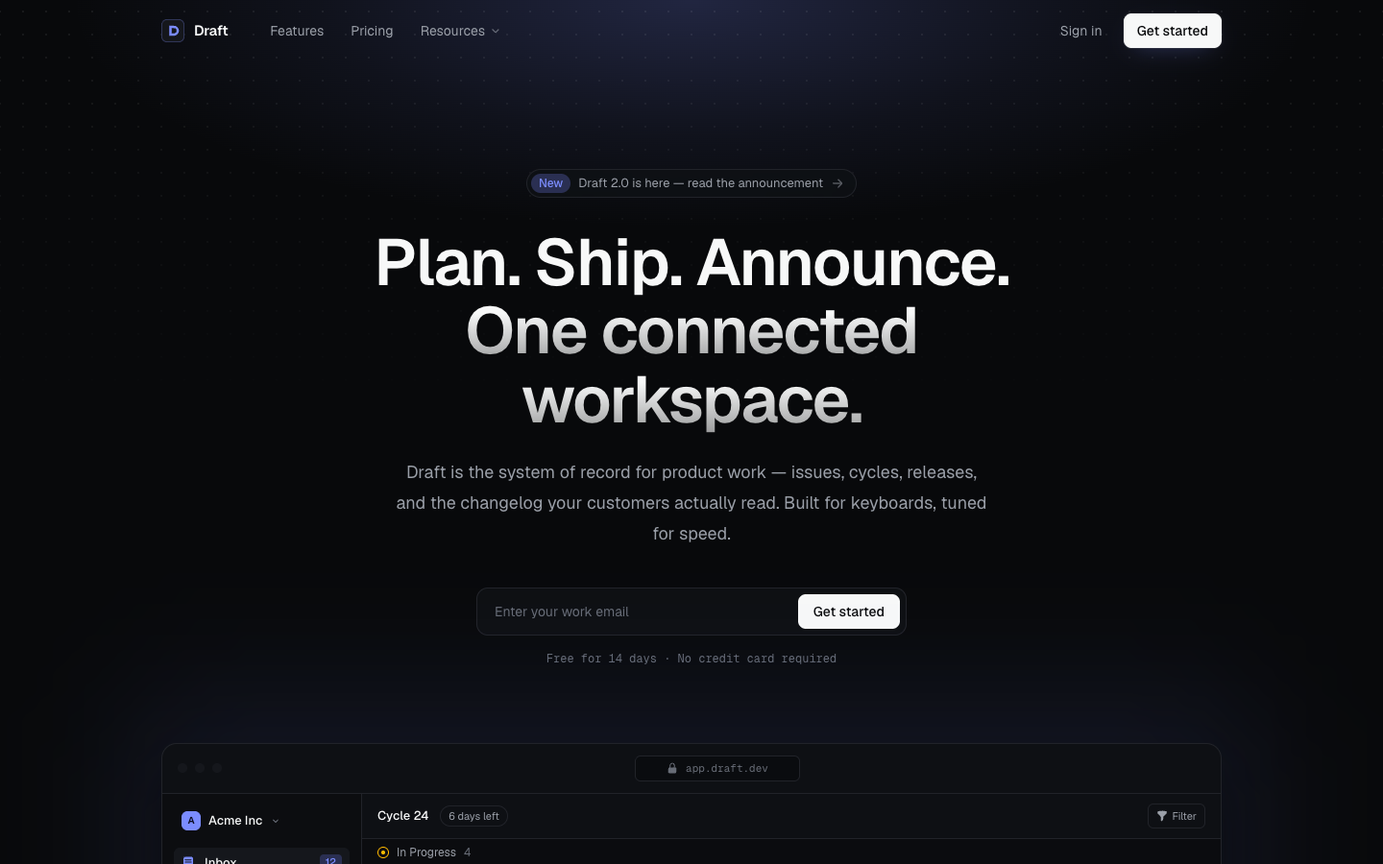
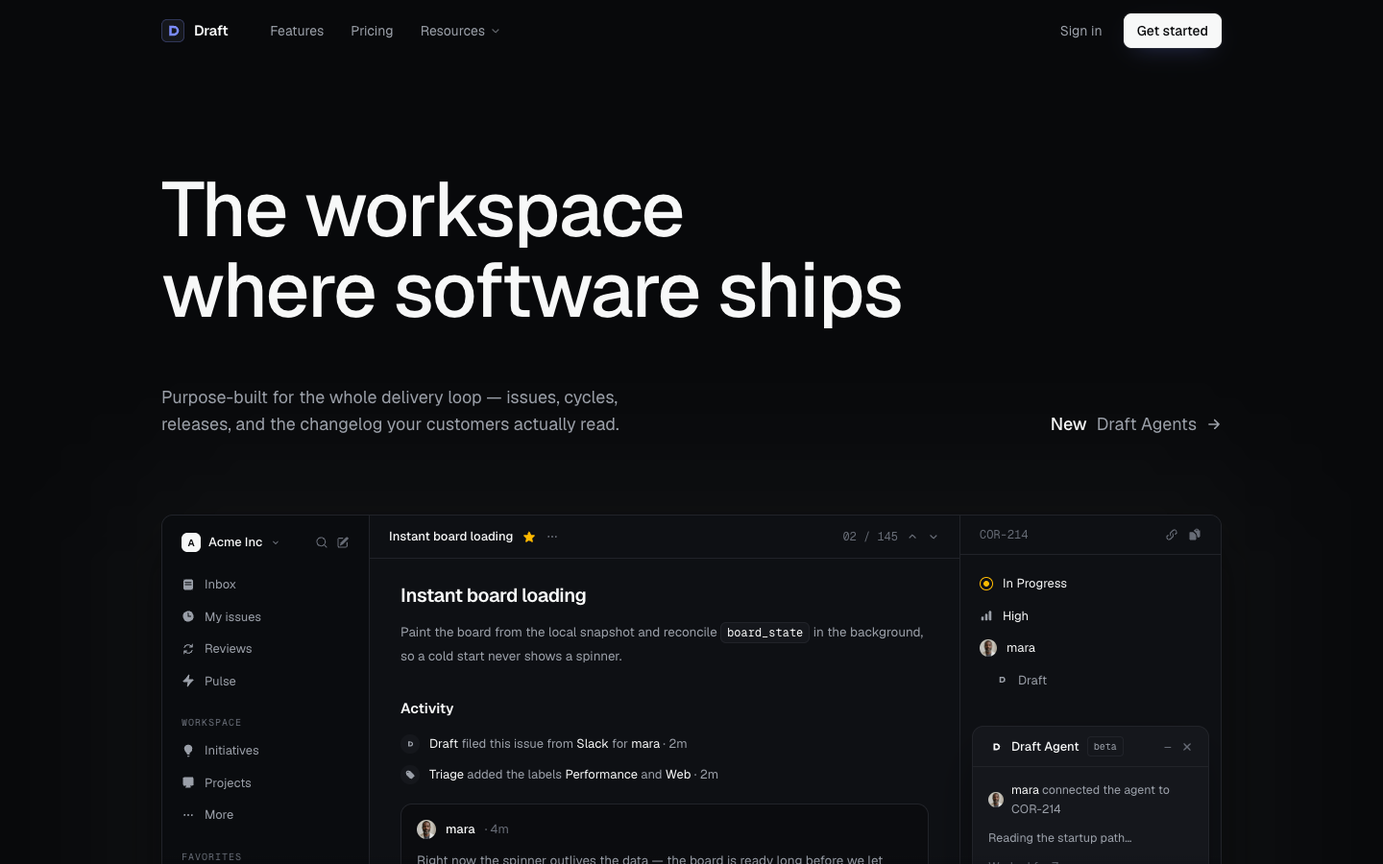
Redesign the hero: monochrome, left-aligned, issue-detail window
The headline moves left at display scale, the email capture gives way
to a subcopy row with a New announcement link, and the product mock
becomes a three-pane issue view — sidebar, activity, meta rail — with
a floating agent session card. Black and white throughout; the only
color is the amber status glints inside the window.

diff --git a/files/resources/views/components/sections/hero.blade.html b/files/resources/views/components/sections/hero.blade.html
@@ -1,210 +1,226 @@
 @props([
-    'badge' => 'Draft 2.0 is here — read the announcement',
-    'badgeLink' => '/updates/draft-2-a-new-foundation',
-    'heading' => 'Plan. Ship. Announce.',
-    'headingLine2' => 'One connected workspace.',
-    'body' => 'Draft is the system of record for product work — issues, cycles, releases, and the changelog your customers actually read. Built for keyboards, tuned for speed.',
-    'placeholder' => 'Enter your work email',
-    'buttonText' => 'Get started',
-    'buttonLink' => '/pricing',
-    'caption' => 'Free for 14 days · No credit card required',
+    'heading' => 'The workspace where software ships',
+    'body' => 'Purpose-built for the whole delivery loop — issues, cycles, releases, and the changelog your customers actually read.',
+    'newLabel' => 'New',
+    'newText' => 'Draft Agents',
+    'newLink' => '/updates/introducing-draft-agents',
 ])
 <!--
-    The opening statement: badge, two-line headline, supporting copy, and the
-    email capture. The product window below it is drawn entirely in HTML and
-    Tailwind — no screenshot to keep in sync, always razor sharp.
+    The opening statement: a left-aligned monochrome headline, a one-line
+    subcopy with the announcement link on the right, then the product window.
+    The window is drawn entirely in HTML and Tailwind — no screenshot to keep
+    in sync, always razor sharp. It stays black and white on purpose; the only
+    color in the hero is the handful of functional glints inside the mock.
 -->
 <section id="hero" class="relative overflow-hidden pt-36 pb-8 sm:pt-44">
-    <div class="glow pointer-events-none absolute inset-x-0 top-0 h-[36rem]"></div>
-    <div class="dot-grid pointer-events-none absolute inset-x-0 top-0 h-[30rem]"></div>
-
     <div class="relative mx-auto w-full max-w-6xl px-6">
-        <div class="mx-auto max-w-3xl text-center">
 
-            <a href="{{ $badgeLink }}" class="group inline-flex items-center gap-2 rounded-full border border-line bg-panel/80 py-1 pr-3 pl-1 text-[13px] text-muted backdrop-blur transition-colors duration-200 hover:border-accent/40 hover:text-ink" data-reveal>
-                <span class="rounded-full bg-accent-soft px-2 py-0.5 text-xs font-medium text-accent">New</span>
-                {{ $badge }}
-                <svg viewBox="0 0 16 16" class="size-3.5 fill-current opacity-50 transition-transform duration-200 group-hover:translate-x-0.5" aria-hidden="true">
+        <h1 class="max-w-[17ch] text-[2.75rem] leading-[1.08] font-medium tracking-[-0.02em] text-balance sm:text-[4.5rem] sm:leading-[1.05] lg:text-[5rem]" data-reveal>
+            {{ $heading }}
+        </h1>
+
+        <div class="reveal-1 mt-10 flex flex-wrap items-end justify-between gap-x-12 gap-y-6 sm:mt-14" data-reveal>
+            <p class="max-w-[44ch] text-lg/7 text-pretty text-muted">{{ $body }}</p>
+
+            <a href="{{ $newLink }}" class="group flex shrink-0 items-center gap-2.5 text-lg/7">
+                <span class="font-medium text-ink">{{ $newLabel }}</span>
+                <span class="text-muted transition-colors duration-200 group-hover:text-ink">{{ $newText }}</span>
+                <svg viewBox="0 0 16 16" class="size-4 fill-muted transition-all duration-200 group-hover:translate-x-0.5 group-hover:fill-ink" aria-hidden="true">
                     <path fill-rule="evenodd" d="M2 8a.75.75 0 0 1 .75-.75h8.69L8.22 4.03a.75.75 0 0 1 1.06-1.06l4.5 4.5a.75.75 0 0 1 0 1.06l-4.5 4.5a.75.75 0 0 1-1.06-1.06l3.22-3.22H2.75A.75.75 0 0 1 2 8Z" clip-rule="evenodd"/>
                 </svg>
             </a>
-
-            <h1 class="reveal-1 mt-8 text-[2.75rem] leading-[1.1] font-semibold tracking-tight text-balance sm:text-[4.25rem] sm:leading-[1.05]" data-reveal>
-                {{ $heading }}<br class="max-sm:hidden">
-                <span class="text-gradient">{{ $headingLine2 }}</span>
-            </h1>
-
-            <p class="reveal-2 mx-auto mt-6 max-w-[52ch] text-lg/8 text-pretty text-muted" data-reveal>
-                {{ $body }}
-            </p>
-
-            <form action="#" class="reveal-3 mx-auto mt-10 flex max-w-md items-center gap-2 rounded-xl border border-line bg-panel/80 p-1.5 backdrop-blur transition-colors duration-200 focus-within:border-accent/50 max-sm:flex-col max-sm:items-stretch max-sm:border-0 max-sm:bg-transparent max-sm:p-0 max-sm:backdrop-blur-none" data-reveal>
-                <input
-                    type="email"
-                    name="email"
-                    placeholder="{{ $placeholder }}"
-                    class="min-w-0 flex-1 bg-transparent px-3 py-2 text-sm text-ink placeholder:text-faint focus:outline-none max-sm:rounded-xl max-sm:border max-sm:border-line max-sm:bg-panel max-sm:py-3">
-                <a href="{{ $buttonLink }}" class="shrink-0 rounded-lg bg-ink px-4 py-2 text-center text-sm font-medium text-canvas transition-all duration-200 hover:bg-white max-sm:py-3">
-                    {{ $buttonText }}
-                </a>
-            </form>
-
-            <p class="reveal-4 mt-4 font-mono text-xs text-faint" data-reveal>{{ $caption }}</p>
         </div>
 
         <!--
             The product window — pure HTML and Tailwind, aria-hidden decoration.
-            A Linear-style triage view: sidebar, toolbar, and an issue list.
+            An issue-detail view: sidebar, the issue with its activity, and the
+            meta rail with a floating agent card.
         -->
-        <div class="reveal-4 relative mt-16 sm:mt-20" data-reveal aria-hidden="true">
-            <div class="pointer-events-none absolute -inset-x-8 -top-12 bottom-0 rounded-[2.5rem] bg-accent/10 blur-3xl"></div>
+        <div class="reveal-2 relative mt-14 sm:mt-20" data-reveal aria-hidden="true">
+            <div class="pointer-events-none absolute -inset-x-10 -top-10 bottom-0 rounded-[3rem] bg-white/[0.03] blur-3xl"></div>
 
-            <div class="pointer-events-none relative select-none overflow-hidden rounded-2xl border border-line bg-panel shadow-2xl shadow-black/60">
-                <!-- Window chrome -->
-                <div class="flex items-center gap-2 border-b border-line px-4 py-3">
-                    <span class="size-2.5 rounded-full bg-raised"></span>
-                    <span class="size-2.5 rounded-full bg-raised"></span>
-                    <span class="size-2.5 rounded-full bg-raised"></span>
-                    <span class="mx-auto flex items-center gap-2 rounded-md border border-line bg-canvas/60 px-8 py-1 font-mono text-[11px] text-faint">
-                        <svg viewBox="0 0 20 20" class="size-3 fill-current" aria-hidden="true"><path fill-rule="evenodd" d="M10 1a4.5 4.5 0 0 0-4.5 4.5V9H5a2 2 0 0 0-2 2v6a2 2 0 0 0 2 2h10a2 2 0 0 0 2-2v-6a2 2 0 0 0-2-2h-.5V5.5A4.5 4.5 0 0 0 10 1Zm3 8V5.5a3 3 0 1 0-6 0V9h6Z" clip-rule="evenodd"/></svg>
-                        app.draft.dev
-                    </span>
-                </div>
+            <div class="pointer-events-none relative select-none overflow-hidden rounded-xl border border-line bg-panel shadow-2xl shadow-black/70">
+                <div class="grid lg:grid-cols-[13.5rem_1fr] xl:grid-cols-[13.5rem_1fr_17rem]">
 
-                <div class="grid sm:grid-cols-[13rem_1fr]">
                     <!-- Sidebar -->
-                    <div class="border-r border-line bg-canvas/40 p-3 max-sm:hidden">
+                    <div class="border-r border-line bg-canvas/60 p-3 max-lg:hidden">
                         <div class="flex items-center gap-2 px-2 py-1.5">
-                            <span class="flex size-5 items-center justify-center rounded-md bg-accent text-[10px] font-bold text-[#0b0c22]">A</span>
+                            <span class="flex size-5 items-center justify-center rounded-md bg-ink text-[10px] font-bold text-canvas">A</span>
                             <span class="text-[13px] font-medium text-ink">Acme Inc</span>
                             <svg viewBox="0 0 16 16" class="size-3 fill-faint" aria-hidden="true"><path fill-rule="evenodd" d="M4.22 6.22a.75.75 0 0 1 1.06 0L8 8.94l2.72-2.72a.75.75 0 1 1 1.06 1.06l-3.25 3.25a.75.75 0 0 1-1.06 0L4.22 7.28a.75.75 0 0 1 0-1.06Z" clip-rule="evenodd"/></svg>
+                            <span class="ml-auto flex items-center gap-2 text-faint">
+                                <svg viewBox="0 0 20 20" class="size-3.5 fill-current" aria-hidden="true"><path fill-rule="evenodd" d="M9 3.5a5.5 5.5 0 1 0 0 11 5.5 5.5 0 0 0 0-11ZM2 9a7 7 0 1 1 12.452 4.391l3.328 3.329a.75.75 0 1 1-1.06 1.06l-3.329-3.328A7 7 0 0 1 2 9Z" clip-rule="evenodd"/></svg>
+                                <svg viewBox="0 0 20 20" class="size-3.5 fill-current" aria-hidden="true"><path d="m5.433 13.917 1.262-3.155A4 4 0 0 1 7.58 9.42l6.92-6.918a2.121 2.121 0 0 1 3 3l-6.92 6.918c-.383.383-.84.685-1.343.886l-3.154 1.262a.5.5 0 0 1-.65-.65Z"/><path d="M3.5 5.75c0-.69.56-1.25 1.25-1.25H10A.75.75 0 0 0 10 3H4.75A2.75 2.75 0 0 0 2 5.75v9.5A2.75 2.75 0 0 0 4.75 18h9.5A2.75 2.75 0 0 0 17 15.25V10a.75.75 0 0 0-1.5 0v5.25c0 .69-.56 1.25-1.25 1.25h-9.5c-.69 0-1.25-.56-1.25-1.25v-9.5Z"/></svg>
+                            </span>
                         </div>
 
                         <div class="mt-3 flex flex-col gap-0.5 text-[13px] text-muted">
-                            <span class="flex items-center gap-2.5 rounded-md bg-raised px-2 py-1.5 font-medium text-ink">
-                                <svg viewBox="0 0 20 20" class="size-3.5 fill-accent" aria-hidden="true"><path d="M3 4.25A2.25 2.25 0 0 1 5.25 2h9.5A2.25 2.25 0 0 1 17 4.25v11.5A2.25 2.25 0 0 1 14.75 18h-9.5A2.25 2.25 0 0 1 3 15.75V4.25ZM5.5 6a.75.75 0 0 0 0 1.5h9a.75.75 0 0 0 0-1.5h-9ZM5.5 9.25a.75.75 0 0 0 0 1.5h9a.75.75 0 0 0 0-1.5h-9Z"/></svg>
+                            <span class="flex items-center gap-2.5 px-2 py-1.5">
+                                <svg viewBox="0 0 20 20" class="size-3.5 fill-current" aria-hidden="true"><path d="M3 4.25A2.25 2.25 0 0 1 5.25 2h9.5A2.25 2.25 0 0 1 17 4.25v11.5A2.25 2.25 0 0 1 14.75 18h-9.5A2.25 2.25 0 0 1 3 15.75V4.25ZM5.5 6a.75.75 0 0 0 0 1.5h9a.75.75 0 0 0 0-1.5h-9ZM5.5 9.25a.75.75 0 0 0 0 1.5h9a.75.75 0 0 0 0-1.5h-9Z"/></svg>
                                 Inbox
-                                <span class="ml-auto rounded bg-accent-soft px-1.5 text-[11px] font-medium text-accent">12</span>
                             </span>
                             <span class="flex items-center gap-2.5 px-2 py-1.5">
                                 <svg viewBox="0 0 20 20" class="size-3.5 fill-current" aria-hidden="true"><path fill-rule="evenodd" d="M10 18a8 8 0 1 0 0-16 8 8 0 0 0 0 16Zm.75-13a.75.75 0 0 0-1.5 0v5c0 .414.336.75.75.75h4a.75.75 0 0 0 0-1.5h-3.25V5Z" clip-rule="evenodd"/></svg>
                                 My issues
                             </span>
                             <span class="flex items-center gap-2.5 px-2 py-1.5">
-                                <svg viewBox="0 0 20 20" class="size-3.5 fill-current" aria-hidden="true"><path d="M15.98 1.804a1 1 0 0 0-1.96 0l-.24 1.192a1 1 0 0 1-.784.785l-1.192.238a1 1 0 0 0 0 1.962l1.192.238a1 1 0 0 1 .785.785l.238 1.192a1 1 0 0 0 1.962 0l.238-1.192a1 1 0 0 1 .785-.785l1.192-.238a1 1 0 0 0 0-1.962l-1.192-.238a1 1 0 0 1-.785-.785l-.238-1.192ZM6.949 5.684a1 1 0 0 0-1.898 0l-.683 2.051a1 1 0 0 1-.633.633l-2.051.683a1 1 0 0 0 0 1.898l2.051.684a1 1 0 0 1 .633.632l.683 2.051a1 1 0 0 0 1.898 0l.683-2.051a1 1 0 0 1 .633-.633l2.051-.683a1 1 0 0 0 0-1.898l-2.051-.683a1 1 0 0 1-.633-.633l-.683-2.051Z"/></svg>
-                                Cycles
+                                <svg viewBox="0 0 20 20" class="size-3.5 fill-current" aria-hidden="true"><path fill-rule="evenodd" d="M15.312 11.424a5.5 5.5 0 0 1-9.201 2.466l-.312-.311h2.433a.75.75 0 0 0 0-1.5H3.989a.75.75 0 0 0-.75.75v4.242a.75.75 0 0 0 1.5 0v-2.43l.31.31a7 7 0 0 0 11.712-3.138.75.75 0 0 0-1.449-.39Zm1.23-3.723a.75.75 0 0 0 .219-.53V2.929a.75.75 0 0 0-1.5 0V5.36l-.31-.31A7 7 0 0 0 3.239 8.188a.75.75 0 1 0 1.448.389A5.5 5.5 0 0 1 13.89 6.11l.311.31h-2.432a.75.75 0 0 0 0 1.5h4.243a.75.75 0 0 0 .53-.219Z" clip-rule="evenodd"/></svg>
+                                Reviews
                             </span>
                             <span class="flex items-center gap-2.5 px-2 py-1.5">
-                                <svg viewBox="0 0 20 20" class="size-3.5 fill-current" aria-hidden="true"><path fill-rule="evenodd" d="M2 4.25A2.25 2.25 0 0 1 4.25 2h11.5A2.25 2.25 0 0 1 18 4.25v8.5A2.25 2.25 0 0 1 15.75 15h-3.105a3.501 3.501 0 0 0 1.1 1.677A.75.75 0 0 1 13.26 18H6.74a.75.75 0 0 1-.484-1.323A3.501 3.501 0 0 0 7.355 15H4.25A2.25 2.25 0 0 1 2 12.75v-8.5Zm1.5 0a.75.75 0 0 1 .75-.75h11.5a.75.75 0 0 1 .75.75v7.5a.75.75 0 0 1-.75.75H4.25a.75.75 0 0 1-.75-.75v-7.5Z" clip-rule="evenodd"/></svg>
+                                <svg viewBox="0 0 20 20" class="size-3.5 fill-current" aria-hidden="true"><path d="M11.983 1.907a.75.75 0 0 0-1.292-.657l-8.5 9.5A.75.75 0 0 0 2.75 12h6.572l-1.305 6.093a.75.75 0 0 0 1.292.657l8.5-9.5A.75.75 0 0 0 17.25 8h-6.572l1.305-6.093Z"/></svg>
+                                Pulse
+                            </span>
+                        </div>
+
+                        <p class="mt-5 px-2 font-mono text-[10px] tracking-widest text-faint uppercase">Workspace</p>
+                        <div class="mt-1.5 flex flex-col gap-0.5 text-[13px] text-muted">
+                            <span class="flex items-center gap-2.5 px-2 py-1.5">
+                                <svg viewBox="0 0 20 20" class="size-3.5 fill-current" aria-hidden="true"><path d="M10 1a6 6 0 0 0-3.815 10.631C7.237 12.5 8 13.443 8 14.456v.644a.75.75 0 0 0 .572.729 6.016 6.016 0 0 0 2.856 0A.75.75 0 0 0 12 15.1v-.644c0-1.013.762-1.957 1.815-2.825A6 6 0 0 0 10 1ZM8.863 17.414a.75.75 0 0 0-.226 1.483 9.066 9.066 0 0 0 2.726 0 .75.75 0 0 0-.226-1.483 7.553 7.553 0 0 1-2.274 0Z"/></svg>
+                                Initiatives
+                            </span>
+                            <span class="flex items-center gap-2.5 px-2 py-1.5">
+                                <svg viewBox="0 0 20 20" class="size-3.5 fill-current" aria-hidden="true"><path fill-rule="evenodd" d="M2 4.25A2.25 2.25 0 0 1 4.25 2h11.5A2.25 2.25 0 0 1 18 4.25v8.5A2.25 2.25 0 0 1 15.75 15h-3.105a3.501 3.501 0 0 0 1.1 1.677A.75.75 0 0 1 13.26 18H6.74a.75.75 0 0 1-.484-1.323A3.501 3.501 0 0 0 7.355 15H4.25A2.25 2.25 0 0 1 2 12.75v-8.5Z" clip-rule="evenodd"/></svg>
                                 Projects
                             </span>
                             <span class="flex items-center gap-2.5 px-2 py-1.5">
-                                <svg viewBox="0 0 20 20" class="size-3.5 fill-current" aria-hidden="true"><path d="M4.25 2A2.25 2.25 0 0 0 2 4.25v2.5A2.25 2.25 0 0 0 4.25 9h2.5A2.25 2.25 0 0 0 9 6.75v-2.5A2.25 2.25 0 0 0 6.75 2h-2.5Zm0 9A2.25 2.25 0 0 0 2 13.25v2.5A2.25 2.25 0 0 0 4.25 18h2.5A2.25 2.25 0 0 0 9 15.75v-2.5A2.25 2.25 0 0 0 6.75 11h-2.5Zm9-9A2.25 2.25 0 0 0 11 4.25v2.5A2.25 2.25 0 0 0 13.25 9h2.5A2.25 2.25 0 0 0 18 6.75v-2.5A2.25 2.25 0 0 0 15.75 2h-2.5Zm0 9A2.25 2.25 0 0 0 11 13.25v2.5A2.25 2.25 0 0 0 13.25 18h2.5A2.25 2.25 0 0 0 18 15.75v-2.5A2.25 2.25 0 0 0 15.75 11h-2.5Z"/></svg>
-                                Views
+                                <svg viewBox="0 0 20 20" class="size-3.5 fill-current" aria-hidden="true"><path d="M3 10a1.5 1.5 0 1 1 3 0 1.5 1.5 0 0 1-3 0ZM8.5 10a1.5 1.5 0 1 1 3 0 1.5 1.5 0 0 1-3 0ZM15.5 8.5a1.5 1.5 0 1 0 0 3 1.5 1.5 0 0 0 0-3Z"/></svg>
+                                More
+                            </span>
+                        </div>
+
+                        <p class="mt-5 px-2 font-mono text-[10px] tracking-widest text-faint uppercase">Favorites</p>
+                        <div class="mt-1.5 flex flex-col gap-0.5 text-[13px] text-muted">
+                            <span class="flex items-center gap-2.5 rounded-md bg-raised px-2 py-1.5 font-medium text-ink">
+                                <span class="relative flex size-3 items-center justify-center rounded-full border-[1.5px] border-amber-400"><span class="size-1 rounded-full bg-amber-400"></span></span>
+                                Instant board loading
                             </span>
                             <span class="flex items-center gap-2.5 px-2 py-1.5">
-                                <svg viewBox="0 0 20 20" class="size-3.5 fill-current" aria-hidden="true"><path fill-rule="evenodd" d="M3.5 3A1.5 1.5 0 0 0 2 4.5v11A1.5 1.5 0 0 0 3.5 17h13a1.5 1.5 0 0 0 1.5-1.5v-11A1.5 1.5 0 0 0 16.5 3h-13ZM5 6.75A.75.75 0 0 1 5.75 6h8.5a.75.75 0 0 1 0 1.5h-8.5A.75.75 0 0 1 5 6.75ZM5.75 9.5a.75.75 0 0 0 0 1.5h8.5a.75.75 0 0 0 0-1.5h-8.5Z" clip-rule="evenodd"/></svg>
-                                Releases
+                                <svg viewBox="0 0 20 20" class="size-3.5 fill-current" aria-hidden="true"><path d="M15.98 1.804a1 1 0 0 0-1.96 0l-.24 1.192a1 1 0 0 1-.784.785l-1.192.238a1 1 0 0 0 0 1.962l1.192.238a1 1 0 0 1 .785.785l.238 1.192a1 1 0 0 0 1.962 0l.238-1.192a1 1 0 0 1 .785-.785l1.192-.238a1 1 0 0 0 0-1.962l-1.192-.238a1 1 0 0 1-.785-.785l-.238-1.192ZM6.949 5.684a1 1 0 0 0-1.898 0l-.683 2.051a1 1 0 0 1-.633.633l-2.051.683a1 1 0 0 0 0 1.898l2.051.684a1 1 0 0 1 .633.632l.683 2.051a1 1 0 0 0 1.898 0l.683-2.051a1 1 0 0 1 .633-.633l2.051-.683a1 1 0 0 0 0-1.898l-2.051-.683a1 1 0 0 1-.633-.633l-.683-2.051Z"/></svg>
+                                Agent tasks
                             </span>
-                        </div>
-
-                        <p class="mt-5 px-2 font-mono text-[10px] tracking-widest text-faint uppercase">Teams</p>
-                        <div class="mt-1.5 flex flex-col gap-0.5 text-[13px] text-muted">
-                            <span class="flex items-center gap-2.5 px-2 py-1.5"><span class="size-2 rounded-sm bg-accent"></span>Core</span>
-                            <span class="flex items-center gap-2.5 px-2 py-1.5"><span class="size-2 rounded-sm bg-emerald-400"></span>Mobile</span>
-                            <span class="flex items-center gap-2.5 px-2 py-1.5"><span class="size-2 rounded-sm bg-amber-400"></span>Infrastructure</span>
+                            <span class="flex items-center gap-2.5 px-2 py-1.5">
+                                <svg viewBox="0 0 20 20" class="size-3.5 fill-current" aria-hidden="true"><path d="m5.433 13.917 1.262-3.155A4 4 0 0 1 7.58 9.42l6.92-6.918a2.121 2.121 0 0 1 3 3l-6.92 6.918c-.383.383-.84.685-1.343.886l-3.154 1.262a.5.5 0 0 1-.65-.65Z"/></svg>
+                                UI polish
+                            </span>
                         </div>
                     </div>
 
-                    <!-- Main pane -->
+                    <!-- Main pane: the issue -->
                     <div class="min-w-0 bg-panel">
-                        <!-- Toolbar -->
-                        <div class="flex items-center gap-3 border-b border-line px-4 py-2.5 text-[13px]">
-                            <span class="font-medium text-ink">Cycle 24</span>
-                            <span class="rounded-full border border-line px-2 py-0.5 text-[11px] text-muted">6 days left</span>
-                            <span class="ml-auto flex items-center gap-1 rounded-md border border-line px-2 py-1 text-[11px] text-muted">
-                                <svg viewBox="0 0 20 20" class="size-3 fill-current" aria-hidden="true"><path fill-rule="evenodd" d="M2.628 1.601C5.028 1.206 7.49 1 10 1s4.973.206 7.372.601a.75.75 0 0 1 .628.74v2.288a2.25 2.25 0 0 1-.659 1.59l-4.682 4.683a2.25 2.25 0 0 0-.659 1.59v3.037c0 .684-.31 1.33-.844 1.757l-1.937 1.55A.75.75 0 0 1 8 18.25v-5.757a2.25 2.25 0 0 0-.659-1.591L2.659 6.22A2.25 2.25 0 0 1 2 4.629V2.34a.75.75 0 0 1 .628-.74Z" clip-rule="evenodd"/></svg>
-                                Filter
+                        <div class="flex items-center gap-2.5 border-b border-line px-5 py-3 text-[13px]">
+                            <span class="truncate font-medium text-ink">Instant board loading</span>
+                            <svg viewBox="0 0 20 20" class="size-3.5 shrink-0 fill-amber-400" aria-hidden="true"><path fill-rule="evenodd" d="M10.868 2.884c-.321-.772-1.415-.772-1.736 0l-1.83 4.401-4.753.381c-.833.067-1.171 1.107-.536 1.651l3.62 3.102-1.106 4.637c-.194.813.691 1.456 1.405 1.02L10 15.591l4.069 2.485c.713.436 1.598-.207 1.404-1.02l-1.106-4.637 3.62-3.102c.635-.544.297-1.584-.536-1.65l-4.752-.382-1.831-4.401Z" clip-rule="evenodd"/></svg>
+                            <svg viewBox="0 0 20 20" class="size-3.5 shrink-0 fill-faint" aria-hidden="true"><path d="M3 10a1.5 1.5 0 1 1 3 0 1.5 1.5 0 0 1-3 0ZM8.5 10a1.5 1.5 0 1 1 3 0 1.5 1.5 0 0 1-3 0ZM15.5 8.5a1.5 1.5 0 1 0 0 3 1.5 1.5 0 0 0 0-3Z"/></svg>
+                            <span class="ml-auto flex shrink-0 items-center gap-2 text-faint">
+                                <span class="font-mono text-xs">02 / 145</span>
+                                <svg viewBox="0 0 16 16" class="size-3.5 fill-current" aria-hidden="true"><path fill-rule="evenodd" d="M11.78 9.78a.75.75 0 0 1-1.06 0L8 7.06 5.28 9.78a.75.75 0 0 1-1.06-1.06l3.25-3.25a.75.75 0 0 1 1.06 0l3.25 3.25a.75.75 0 0 1 0 1.06Z" clip-rule="evenodd"/></svg>
+                                <svg viewBox="0 0 16 16" class="size-3.5 fill-current" aria-hidden="true"><path fill-rule="evenodd" d="M4.22 6.22a.75.75 0 0 1 1.06 0L8 8.94l2.72-2.72a.75.75 0 1 1 1.06 1.06l-3.25 3.25a.75.75 0 0 1-1.06 0L4.22 7.28a.75.75 0 0 1 0-1.06Z" clip-rule="evenodd"/></svg>
                             </span>
                         </div>
 
-                        <!-- Group: In Progress -->
-                        <div class="flex items-center gap-2 bg-canvas/50 px-4 py-1.5 text-xs text-muted">
-                            <span class="relative flex size-3 items-center justify-center rounded-full border-[1.5px] border-amber-400"><span class="size-1 rounded-full bg-amber-400"></span></span>
-                            In Progress <span class="text-faint">4</span>
-                        </div>
+                        <div class="px-5 py-6 sm:px-8">
+                            <p class="text-xl font-semibold tracking-tight text-ink">Instant board loading</p>
+                            <p class="mt-3 max-w-[62ch] text-[13.5px]/6 text-muted">
+                                Paint the board from the local snapshot and reconcile
+                                <span class="rounded-md border border-line bg-raised px-1.5 py-0.5 font-mono text-[12px] text-ink">board_state</span>
+                                in the background, so a cold start never shows a spinner.
+                            </p>
 
-                        <div class="flex items-center gap-3 border-t border-line px-4 py-2.5 text-[13px]">
-                            <svg viewBox="0 0 16 16" class="size-3.5 shrink-0 fill-orange-400" aria-hidden="true"><path d="M2 10.5a1 1 0 0 1 1-1h1a1 1 0 0 1 1 1V13a1 1 0 0 1-1 1H3a1 1 0 0 1-1-1v-2.5ZM6.5 7a1 1 0 0 1 1-1h1a1 1 0 0 1 1 1v6a1 1 0 0 1-1 1h-1a1 1 0 0 1-1-1V7ZM11 3.5a1 1 0 0 1 1-1h1a1 1 0 0 1 1 1V13a1 1 0 0 1-1 1h-1a1 1 0 0 1-1-1V3.5Z"/></svg>
-                            <span class="font-mono text-xs text-faint">COR-128</span>
-                            <span class="truncate text-ink">Command menu: fuzzy matching for issue titles</span>
-                            <span class="ml-auto hidden shrink-0 items-center gap-2 sm:flex">
-                                <span class="rounded-full border border-line px-2 py-0.5 text-[11px] text-accent">Design</span>
-                                <img src="https://assets.ui.sh/avatars/2.webp?size=160" alt="" class="size-5 rounded-full object-cover" loading="lazy">
-                            </span>
-                        </div>
+                            <p class="mt-8 text-[15px] font-semibold text-ink">Activity</p>
 
-                        <div class="flex items-center gap-3 border-t border-line px-4 py-2.5 text-[13px]">
-                            <svg viewBox="0 0 16 16" class="size-3.5 shrink-0 fill-faint" aria-hidden="true"><path d="M2 10.5a1 1 0 0 1 1-1h1a1 1 0 0 1 1 1V13a1 1 0 0 1-1 1H3a1 1 0 0 1-1-1v-2.5ZM6.5 7a1 1 0 0 1 1-1h1a1 1 0 0 1 1 1v6a1 1 0 0 1-1 1h-1a1 1 0 0 1-1-1V7Z"/></svg>
-                            <span class="font-mono text-xs text-faint">COR-131</span>
-                            <span class="truncate text-ink">Realtime sync drops offline edits older than 30 days</span>
-                            <span class="ml-auto hidden shrink-0 items-center gap-2 sm:flex">
-                                <span class="rounded-full border border-line px-2 py-0.5 text-[11px] text-emerald-400">Sync</span>
-                                <img src="https://assets.ui.sh/avatars/5.webp?size=160" alt="" class="size-5 rounded-full object-cover" loading="lazy">
-                            </span>
-                        </div>
+                            <div class="mt-4 flex flex-col gap-3 text-[13px] text-muted">
+                                <p class="flex items-center gap-2.5">
+                                    <span class="flex size-5 items-center justify-center rounded-full bg-raised"><svg viewBox="0 0 64 64" class="size-3" aria-hidden="true"><path d="M22 18h12c8.284 0 15 6.268 15 14s-6.716 14-15 14H22V18Zm7 6.5v15h5c4.694 0 8.5-3.358 8.5-7.5s-3.806-7.5-8.5-7.5h-5Z" class="fill-muted"/></svg></span>
+                                    <span class="truncate"><span class="text-ink">Draft</span> filed this issue from <span class="text-ink">Slack</span> for <span class="text-ink">mara</span> · 2m</span>
+                                </p>
+                                <p class="flex items-center gap-2.5">
+                                    <span class="flex size-5 items-center justify-center rounded-full bg-raised"><svg viewBox="0 0 20 20" class="size-3 fill-muted" aria-hidden="true"><path fill-rule="evenodd" d="M5.5 3A2.5 2.5 0 0 0 3 5.5v2.879a2.5 2.5 0 0 0 .732 1.767l6.5 6.5a2.5 2.5 0 0 0 3.536 0l2.878-2.878a2.5 2.5 0 0 0 0-3.536l-6.5-6.5A2.5 2.5 0 0 0 8.38 3H5.5ZM6 7a1 1 0 1 0 0-2 1 1 0 0 0 0 2Z" clip-rule="evenodd"/></svg></span>
+                                    <span class="truncate"><span class="text-ink">Triage</span> added the labels <span class="text-ink">Performance</span> and <span class="text-ink">Web</span> · 2m</span>
+                                </p>
+                            </div>
 
-                        <div class="flex items-center gap-3 border-t border-line px-4 py-2.5 text-[13px]">
-                            <svg viewBox="0 0 16 16" class="size-3.5 shrink-0 fill-orange-400" aria-hidden="true"><path d="M2 10.5a1 1 0 0 1 1-1h1a1 1 0 0 1 1 1V13a1 1 0 0 1-1 1H3a1 1 0 0 1-1-1v-2.5ZM6.5 7a1 1 0 0 1 1-1h1a1 1 0 0 1 1 1v6a1 1 0 0 1-1 1h-1a1 1 0 0 1-1-1V7ZM11 3.5a1 1 0 0 1 1-1h1a1 1 0 0 1 1 1V13a1 1 0 0 1-1 1h-1a1 1 0 0 1-1-1V3.5Z"/></svg>
-                            <span class="font-mono text-xs text-faint">MOB-77</span>
-                            <span class="truncate text-ink">Swipe actions for triage on iOS</span>
-                            <span class="ml-auto hidden shrink-0 items-center gap-2 sm:flex">
-                                <span class="rounded-full border border-line px-2 py-0.5 text-[11px] text-muted">Mobile</span>
+                            <div class="mt-5 rounded-xl border border-line bg-canvas/50 p-4">
+                                <p class="flex items-center gap-2.5 text-[13px]">
+                                    <img src="https://assets.ui.sh/avatars/2.webp?size=160" alt="" class="size-5 rounded-full object-cover" loading="lazy">
+                                    <span class="font-medium text-ink">mara</span>
+                                    <span class="text-faint">· 4m</span>
+                                </p>
+                                <p class="mt-2.5 text-[13.5px]/6 text-muted">Right now the spinner outlives the data — the board is ready long before we let anyone see it…</p>
+                            </div>
+
+                            <p class="mt-4 flex items-center gap-2.5 text-[13px] text-faint max-xl:hidden">
                                 <img src="https://assets.ui.sh/avatars/8.webp?size=160" alt="" class="size-5 rounded-full object-cover" loading="lazy">
-                            </span>
-                        </div>
-
-                        <!-- Group: Todo -->
-                        <div class="flex items-center gap-2 border-t border-line bg-canvas/50 px-4 py-1.5 text-xs text-muted">
-                            <span class="size-3 rounded-full border-[1.5px] border-faint"></span>
-                            Todo <span class="text-faint">7</span>
-                        </div>
-
-                        <div class="flex items-center gap-3 border-t border-line px-4 py-2.5 text-[13px]">
-                            <svg viewBox="0 0 16 16" class="size-3.5 shrink-0 fill-faint" aria-hidden="true"><path d="M2 10.5a1 1 0 0 1 1-1h1a1 1 0 0 1 1 1V13a1 1 0 0 1-1 1H3a1 1 0 0 1-1-1v-2.5Z"/></svg>
-                            <span class="font-mono text-xs text-faint">COR-134</span>
-                            <span class="truncate text-ink">Changelog draft generated from merged release notes</span>
-                            <span class="ml-auto hidden shrink-0 items-center gap-2 sm:flex">
-                                <span class="rounded-full border border-line px-2 py-0.5 text-[11px] text-accent">Releases</span>
-                                <img src="https://assets.ui.sh/avatars/11.webp?size=160" alt="" class="size-5 rounded-full object-cover" loading="lazy">
-                            </span>
-                        </div>
-
-                        <div class="flex items-center gap-3 border-t border-line px-4 py-2.5 text-[13px]">
-                            <svg viewBox="0 0 16 16" class="size-3.5 shrink-0 fill-faint" aria-hidden="true"><path d="M2 10.5a1 1 0 0 1 1-1h1a1 1 0 0 1 1 1V13a1 1 0 0 1-1 1H3a1 1 0 0 1-1-1v-2.5ZM6.5 7a1 1 0 0 1 1-1h1a1 1 0 0 1 1 1v6a1 1 0 0 1-1 1h-1a1 1 0 0 1-1-1V7Z"/></svg>
-                            <span class="font-mono text-xs text-faint">INF-45</span>
-                            <span class="truncate text-ink">Zero-downtime migration for the events table</span>
-                            <span class="ml-auto hidden shrink-0 items-center gap-2 sm:flex">
-                                <span class="rounded-full border border-line px-2 py-0.5 text-[11px] text-amber-400">Infra</span>
-                                <img src="https://assets.ui.sh/avatars/14.webp?size=160" alt="" class="size-5 rounded-full object-cover" loading="lazy">
-                            </span>
-                        </div>
-
-                        <div class="flex items-center gap-3 border-t border-line px-4 py-2.5 text-[13px] max-sm:hidden">
-                            <svg viewBox="0 0 16 16" class="size-3.5 shrink-0 fill-faint" aria-hidden="true"><path d="M2 10.5a1 1 0 0 1 1-1h1a1 1 0 0 1 1 1V13a1 1 0 0 1-1 1H3a1 1 0 0 1-1-1v-2.5Z"/></svg>
-                            <span class="font-mono text-xs text-faint">COR-136</span>
-                            <span class="truncate text-ink">Agent-suggested duplicates in triage view</span>
-                            <span class="ml-auto hidden shrink-0 items-center gap-2 sm:flex">
-                                <span class="rounded-full border border-line px-2 py-0.5 text-[11px] text-accent">Agents</span>
-                                <img src="https://assets.ui.sh/avatars/16.webp?size=160" alt="" class="size-5 rounded-full object-cover" loading="lazy">
-                            </span>
+                                <span class="font-medium text-muted">theo</span>
+                                <span>· just now</span>
+                            </p>
                         </div>
                     </div>
+
+                    <!-- Meta rail + the floating agent card -->
+                    <div class="relative border-l border-line bg-panel max-xl:hidden">
+                        <div class="flex items-center justify-between border-b border-line px-5 py-3">
+                            <span class="font-mono text-xs text-faint">COR-214</span>
+                            <span class="flex items-center gap-2.5 text-faint">
+                                <svg viewBox="0 0 20 20" class="size-3.5 fill-current" aria-hidden="true"><path d="M12.232 4.232a2.5 2.5 0 0 1 3.536 3.536l-1.225 1.224a.75.75 0 0 0 1.061 1.06l1.224-1.224a4 4 0 0 0-5.656-5.656l-3 3a4 4 0 0 0 .225 5.865.75.75 0 0 0 .977-1.138 2.5 2.5 0 0 1-.142-3.667l3-3Z"/><path d="M11.603 7.963a.75.75 0 0 0-.977 1.138 2.5 2.5 0 0 1 .142 3.667l-3 3a2.5 2.5 0 0 1-3.536-3.536l1.225-1.224a.75.75 0 0 0-1.061-1.06l-1.224 1.224a4 4 0 1 0 5.656 5.656l3-3a4 4 0 0 0-.225-5.865Z"/></svg>
+                                <svg viewBox="0 0 20 20" class="size-3.5 fill-current" aria-hidden="true"><path fill-rule="evenodd" d="M15.988 3.012A2.25 2.25 0 0 1 18 5.25v6.5A2.25 2.25 0 0 1 15.75 14H13.5v-3.379a3 3 0 0 0-.879-2.121l-3.12-3.121a3 3 0 0 0-1.402-.791 2.252 2.252 0 0 1 1.913-1.576A2.25 2.25 0 0 1 12.25 1h1.5a2.25 2.25 0 0 1 2.238 2.012ZM11.5 3.25a.75.75 0 0 1 .75-.75h1.5a.75.75 0 0 1 .75.75v.25h-3v-.25Z" clip-rule="evenodd"/><path d="M3.5 6A1.5 1.5 0 0 0 2 7.5v9A1.5 1.5 0 0 0 3.5 18h7a1.5 1.5 0 0 0 1.5-1.5v-5.879a1.5 1.5 0 0 0-.44-1.06L8.44 6.44A1.5 1.5 0 0 0 7.38 6H3.5Z"/></svg>
+                            </span>
+                        </div>
+
+                        <div class="flex flex-col gap-3.5 px-5 py-5 text-[13px]">
+                            <p class="flex items-center gap-2.5 text-ink">
+                                <span class="relative flex size-3.5 items-center justify-center rounded-full border-[1.5px] border-amber-400"><span class="size-1.5 rounded-full bg-amber-400"></span></span>
+                                In Progress
+                            </p>
+                            <p class="flex items-center gap-2.5 text-ink">
+                                <svg viewBox="0 0 16 16" class="size-3.5 fill-muted" aria-hidden="true"><path d="M2 10.5a1 1 0 0 1 1-1h1a1 1 0 0 1 1 1V13a1 1 0 0 1-1 1H3a1 1 0 0 1-1-1v-2.5ZM6.5 7a1 1 0 0 1 1-1h1a1 1 0 0 1 1 1v6a1 1 0 0 1-1 1h-1a1 1 0 0 1-1-1V7ZM11 3.5a1 1 0 0 1 1-1h1a1 1 0 0 1 1 1V13a1 1 0 0 1-1 1h-1a1 1 0 0 1-1-1V3.5Z"/></svg>
+                                High
+                            </p>
+                            <p class="flex items-center gap-2.5 text-ink">
+                                <img src="https://assets.ui.sh/avatars/2.webp?size=160" alt="" class="size-4.5 rounded-full object-cover" loading="lazy">
+                                mara
+                            </p>
+                            <p class="flex items-center gap-2.5 pl-4 text-muted">
+                                <svg viewBox="0 0 64 64" class="size-3.5" aria-hidden="true"><path d="M22 18h12c8.284 0 15 6.268 15 14s-6.716 14-15 14H22V18Zm7 6.5v15h5c4.694 0 8.5-3.358 8.5-7.5s-3.806-7.5-8.5-7.5h-5Z" class="fill-muted"/></svg>
+                                Draft
+                            </p>
+                        </div>
+
+                        <!-- The agent session card -->
+                        <div class="absolute right-3 bottom-0 left-3 translate-y-3 rounded-xl border border-line bg-raised/95 shadow-2xl shadow-black/60 backdrop-blur">
+                            <div class="flex items-center gap-2 border-b border-line px-4 py-2.5">
+                                <svg viewBox="0 0 64 64" class="size-4" aria-hidden="true"><path d="M22 18h12c8.284 0 15 6.268 15 14s-6.716 14-15 14H22V18Zm7 6.5v15h5c4.694 0 8.5-3.358 8.5-7.5s-3.806-7.5-8.5-7.5h-5Z" class="fill-ink"/></svg>
+                                <span class="text-[13px] font-medium text-ink">Draft Agent</span>
+                                <span class="rounded border border-line px-1.5 py-0.5 font-mono text-[10px] text-muted">beta</span>
+                                <span class="ml-auto flex items-center gap-2 text-faint">
+                                    <svg viewBox="0 0 16 16" class="size-3 fill-current" aria-hidden="true"><path d="M3 8.75a.75.75 0 0 1 .75-.75h8.5a.75.75 0 0 1 0 1.5h-8.5A.75.75 0 0 1 3 8.75Z"/></svg>
+                                    <svg viewBox="0 0 16 16" class="size-3 fill-current" aria-hidden="true"><path fill-rule="evenodd" d="M12.78 4.28a.75.75 0 0 0-1.06-1.06L8 6.94 4.28 3.22a.75.75 0 0 0-1.06 1.06L6.94 8l-3.72 3.72a.75.75 0 1 0 1.06 1.06L8 9.06l3.72 3.72a.75.75 0 1 0 1.06-1.06L9.06 8l3.72-3.72Z" clip-rule="evenodd"/></svg>
+                                </span>
+                            </div>
+                            <div class="flex flex-col gap-2.5 px-4 py-3.5 text-[12.5px]/5 text-muted">
+                                <p class="flex items-center gap-2">
+                                    <img src="https://assets.ui.sh/avatars/2.webp?size=160" alt="" class="size-4 rounded-full object-cover" loading="lazy">
+                                    <span><span class="text-ink">mara</span> connected the agent to COR-214</span>
+                                </p>
+                                <p>Reading the startup path…</p>
+                                <p class="flex items-center gap-1.5 text-faint">
+                                    Worked for 7s
+                                    <svg viewBox="0 0 16 16" class="size-3 fill-current" aria-hidden="true"><path fill-rule="evenodd" d="M4.22 6.22a.75.75 0 0 1 1.06 0L8 8.94l2.72-2.72a.75.75 0 1 1 1.06 1.06l-3.25 3.25a.75.75 0 0 1-1.06 0L4.22 7.28a.75.75 0 0 1 0-1.06Z" clip-rule="evenodd"/></svg>
+                                </p>
+                                <p class="text-ink">Pushed a draft PR. Changes:</p>
+                                <p class="flex gap-2">
+                                    <span class="mt-1.5 size-1 shrink-0 rounded-full bg-faint"></span>
+                                    <span><span class="rounded border border-line bg-canvas px-1 py-px font-mono text-[11px] text-ink">useBoardCache.ts</span> — hydrate from the snapshot before first paint</span>
+                                </p>
+                            </div>
+                        </div>
+                    </div>
+
                 </div>
             </div>
 
-            <!-- Fade the window into the canvas, Asset-style -->
-            <div class="pointer-events-none absolute inset-x-0 bottom-0 h-40 bg-gradient-to-t from-canvas to-transparent"></div>
+            <!-- Fade the window into the canvas -->
+            <div class="pointer-events-none absolute inset-x-0 bottom-0 h-32 bg-gradient-to-t from-canvas to-transparent"></div>
         </div>
     </div>
 </section>
